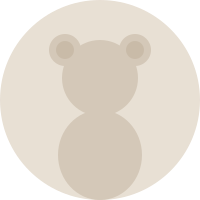
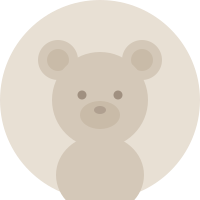
로그아웃 버튼 프로필로 이동 + 기본 아바타 크기 조정
- 상단바에서 로그아웃/로그인 버튼 제거
- 비로그인 시 기본 아바타 클릭 → 로그인 페이지
- 로그아웃은 프로필 하단 (문의하기 옆)
- 기본 프로필 곰돌이 아래로 이동 + 크기 키움

diff --git a/app/components/Nav.js b/app/components/Nav.js
@@ -63,12 +63,18 @@ export default function Nav() {
                 cursor: 'pointer', border: '1.5px solid #E8E0D4',
                 overflow: 'hidden',
               }}
-            >
-            </div>
-            <button onClick={async () => { await supabase.auth.signOut(); router.push('/') }} style={{ background: 'transparent', color: '#9A8A78', border: '0.5px solid #D4C8B8', borderRadius: '20px', padding: '5px 14px', fontSize: '12px', cursor: 'pointer' }}>로그아웃</button>
+            />
           </div>
         ) : (
-          <button onClick={() => router.push('/login')} style={{ background: '#C9A882', color: '#fff', border: 'none', borderRadius: '20px', padding: '6px 16px', fontSize: '13px', cursor: 'pointer' }}>로그인</button>
+          <div
+            onClick={() => router.push('/login')}
+            style={{
+              width: '30px', height: '30px', borderRadius: '50%',
+              background: 'url(/default-avatar.png) center/cover',
+              cursor: 'pointer', border: '1.5px solid #E8E0D4',
+              overflow: 'hidden',
+            }}
+          />
         )}
       </div>
     </nav>

diff --git a/app/profile/page.js b/app/profile/page.js
@@ -94,8 +94,10 @@ export default function Profile() {
           </button>
         </div>
 
-        <div style={{ marginTop: '16px', textAlign: 'center' }}>
+        <div style={{ marginTop: '16px', textAlign: 'center', display: 'flex', gap: '16px', justifyContent: 'center' }}>
           <span onClick={() => router.push('/contact')} style={{ fontSize: '13px', color: '#9A8A78', cursor: 'pointer' }}>문의하기</span>
+          <span style={{ color: '#E8E0D4' }}>·</span>
+          <span onClick={async () => { await supabase.auth.signOut(); localStorage.removeItem('auto-login'); router.push('/') }} style={{ fontSize: '13px', color: '#C4B8A8', cursor: 'pointer' }}>로그아웃</span>
         </div>
       </section>
     </main>
